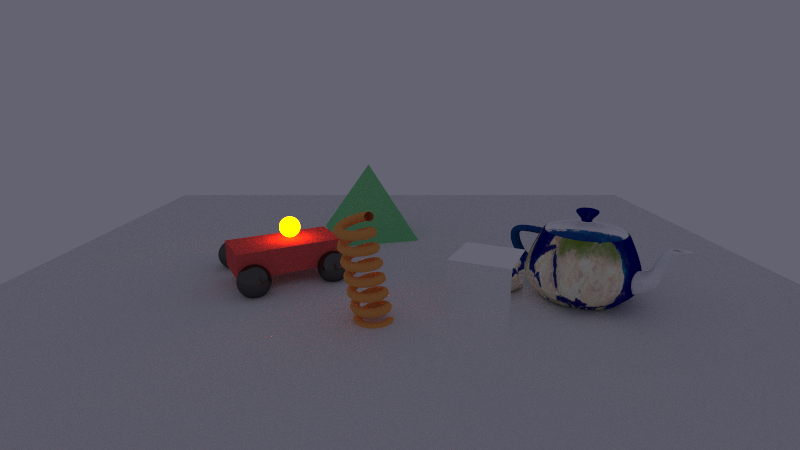
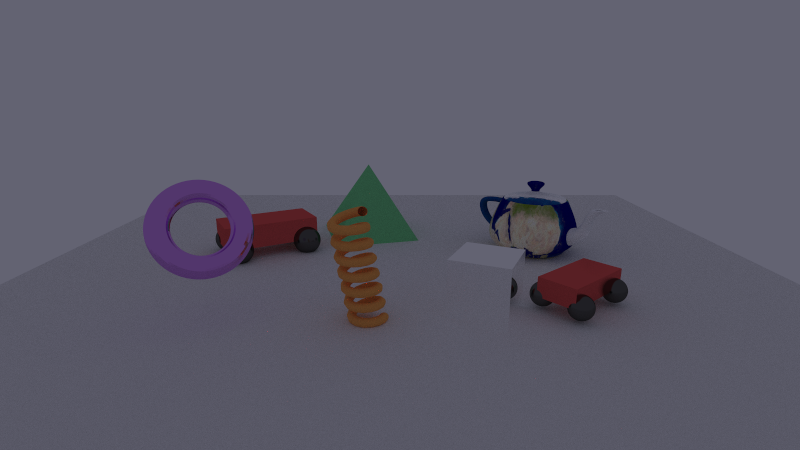
Added importing scenes inside of scenes

Changed region(s): [[0.1562, 0.4044, 0.5, 0.7467], [0.5938, 0.4044, 0.8125, 0.7467]]

diff --git a/src/new_parser.cpp b/src/new_parser.cpp
@@ -536,25 +536,38 @@ pPointLight newParser::parseLitCone(const libconfig::Setting &light)
 }
 void newParser::parseLights(void)
 {
-    const libconfig::Setting &light = _root["lights"]["point"];
-    pPointLight newL;
-    std::string name;
-    for (int i = 0; i != light.getLength(); i++) {
-        light[i].lookupValue("shape", name);
-        if (name == "sphere") {
-            newL = parseLitSphere(light[i]);
-            _lights.push_back(newL);
-            continue;
+    if (_root["lights"].exists("point")) {
+        const libconfig::Setting &light = _root["lights"]["point"];
+        pPointLight newL;
+        std::string name;
+        for (int i = 0; i != light.getLength(); i++) {
+            light[i].lookupValue("shape", name);
+            if (name == "sphere") {
+                newL = parseLitSphere(light[i]);
+                _lights.push_back(newL);
+            }
+            else if (name == "cylinder") {
+                newL = parseLitCylinder(light[i]);
+                _lights.push_back(newL);
+            }
+            else if (name == "cone") {
+                newL = parseLitCone(light[i]);
+                _lights.push_back(newL);
+            }
         }
-        if (name == "cylinder") {
-            newL = parseLitCylinder(light[i]);
-            _lights.push_back(newL);
-            continue;
-        }
-        if (name == "cone") {
-            newL = parseLitCone(light[i]);
-            _lights.push_back(newL);
-            continue;
+    }
+
+    if (_root["lights"].exists("directional")) {
+        const libconfig::Setting &dirlight = _root["lights"]["directional"];
+        for (int i = 0; i < dirlight.getLength(); i++) {
+            pDirLight dL;
+            dirlight[i]["dir"].lookupValue("x", dL.dir_x);
+            dirlight[i]["dir"].lookupValue("y", dL.dir_y);
+            dirlight[i]["dir"].lookupValue("z", dL.dir_z);
+            dirlight[i]["color"].lookupValue("r", dL.color_r);
+            dirlight[i]["color"].lookupValue("g", dL.color_g);
+            dirlight[i]["color"].lookupValue("b", dL.color_b);
+            _dir_lights.push_back(dL);
         }
     }
 }
@@ -697,6 +710,37 @@ hittable_list newParser::setDataPrim(hittable_list world)
         }
     }
 
+    if (_root["primitives"].exists("imports")) {
+        const libconfig::Setting& imports = _root["primitives"]["imports"];
+        for (int i = 0; i < imports.getLength(); i++) {
+            std::string file;
+            if (imports[i].lookupValue("file", file)) {
+                try {
+                    libconfig::Config sub_cfg;
+                    sub_cfg.readFile(file.c_str());
+
+                    newParser sub_parser(sub_cfg);
+                    sub_parser.parsePrimitives(); 
+
+                    hittable_list sub_world;
+                    sub_world = sub_parser.setDataPrim(sub_world);
+                    sub_world = sub_parser.setDataModels(sub_world);
+                    sub_world = sub_parser.setDataParametrics(sub_world);
+
+                    IPrimitive import_prim;
+                    parseTransform(imports[i], import_prim);
+
+                    world.add(applyTransform(std::make_shared<hittable_list>(sub_world), import_prim));
+
+                } catch (const libconfig::FileIOException& fioex) {
+                    std::cerr << "Erreur: Impossible d'ouvrir la sous-scène : " << file << std::endl;
+                } catch (const libconfig::ParseException& pex) {
+                    std::cerr << "Erreur de syntaxe dans " << file << " à la ligne " << pex.getLine() << " - " << pex.getError() << std::endl;
+                }
+            }
+        }
+    }
+
     return world;
 }
 
@@ -745,6 +789,27 @@ hittable_list newParser::setDataLights(hittable_list lights)
             _lights[i]._position_sphere.radius, std::make_shared<diffuse_light>(color(_lights[i]._position_sphere.color_r, _lights[i]._position_sphere.color_g, _lights[i]._position_sphere.color_b))));
         }
     }
+
+    for (const auto& dl : _dir_lights) {
+        vec3 dir(dl.dir_x, dl.dir_y, dl.dir_z);
+        dir = Vec3Utils::unit_vector(dir);
+
+        double sun_distance = 10000.0;
+        point3 sun_center = point3(0, 0, 0) - (dir * sun_distance);
+
+        double sun_radius = sun_distance * 0.004625;
+
+        double intensity_multiplier = (sun_distance * sun_distance) / (sun_radius * sun_radius * pi);
+        color physical_color(
+            dl.color_r * intensity_multiplier,
+            dl.color_g * intensity_multiplier,
+            dl.color_b * intensity_multiplier
+        );
+
+        auto mat = std::make_shared<diffuse_light>(physical_color);
+        lights.add(std::make_shared<sphere>(sun_center, sun_radius, mat));
+    }
+
     return lights;
 }
 
@@ -1219,6 +1284,9 @@ void newParser::checkValidity(void)
         flag++;
     }
     if (_root["primitives"].exists("groups")) {
+        flag++;
+    }
+    if (_root["primitives"].exists("imports")) {
         flag++;
     }
     if (_root["primitives"].getLength() > flag) {

diff --git a/src/new_parser.hpp b/src/new_parser.hpp
@@ -160,6 +160,19 @@ public:
     pPlanes _position_plane; /**< Position plane */
 };
 
+/**
+ * @brief Class representing a directional light source.
+ */
+class pDirLight {
+public:
+    double dir_x;
+    double dir_y;
+    double dir_z;
+    double color_r;
+    double color_g;
+    double color_b;
+};
+
 struct pParametric : public IPrimitive {
     std::string surface_type;   // "torus", "klein", "mobius", "wave", "spring"
     double param1 = 1.0;        // R majeur (torus), amplitude (wave), …
@@ -480,8 +493,10 @@ private:
     Primitives _primitives; /**< Collection of primitive shapes */
 
     std::vector <pPointLight> _lights; /**< Collection of light sources */
+    std::vector <pDirLight> _dir_lights; // NOUVEAU : Collection des lumières directionnelles
 
     std::map<std::string, std::shared_ptr<hittable>> _mesh_cache;
+
 };
 
 #endif /* !NEW_PARSER_HPP_ */
